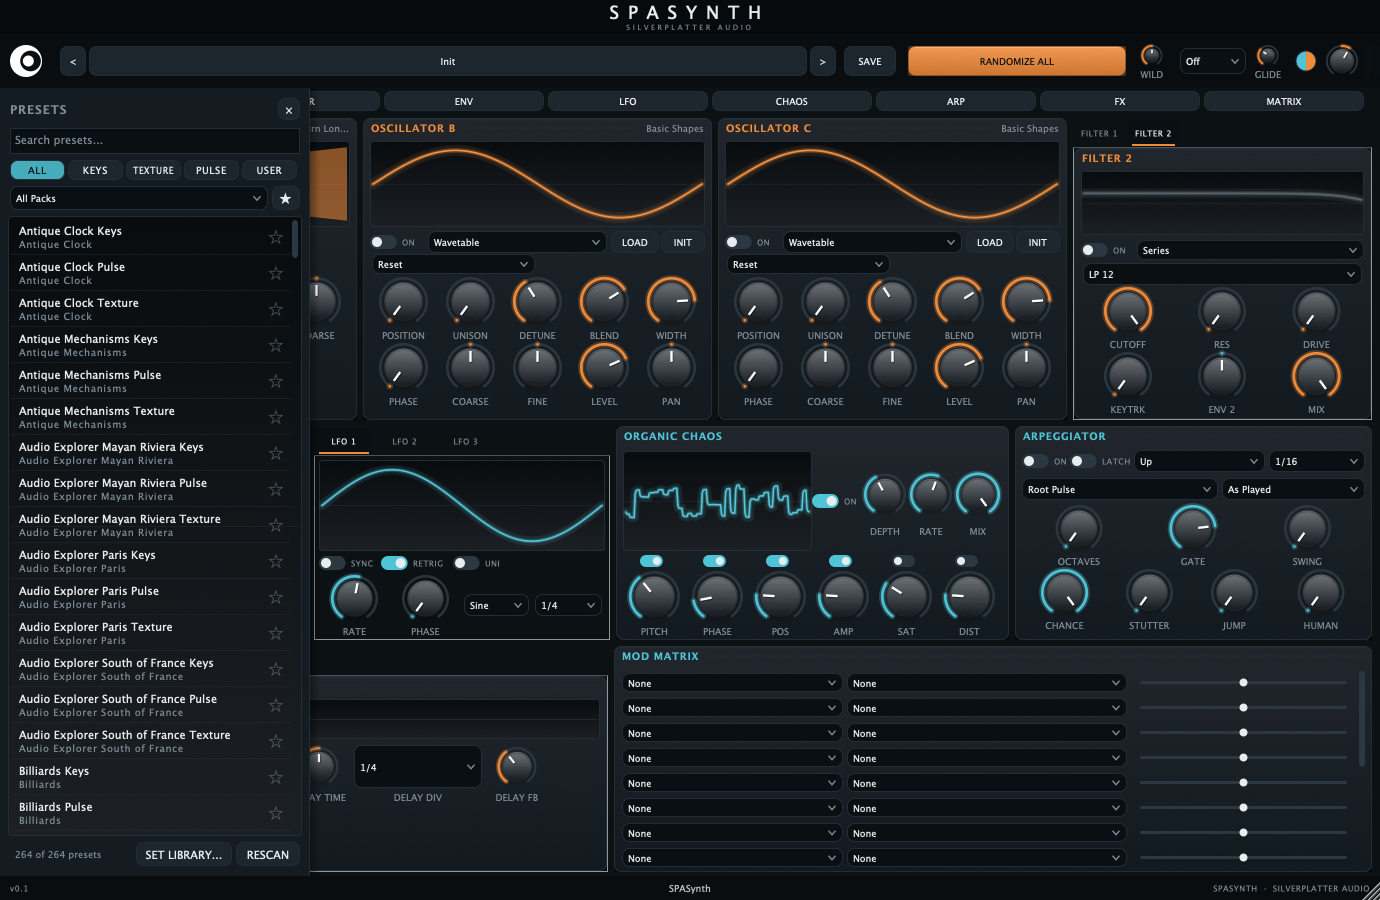
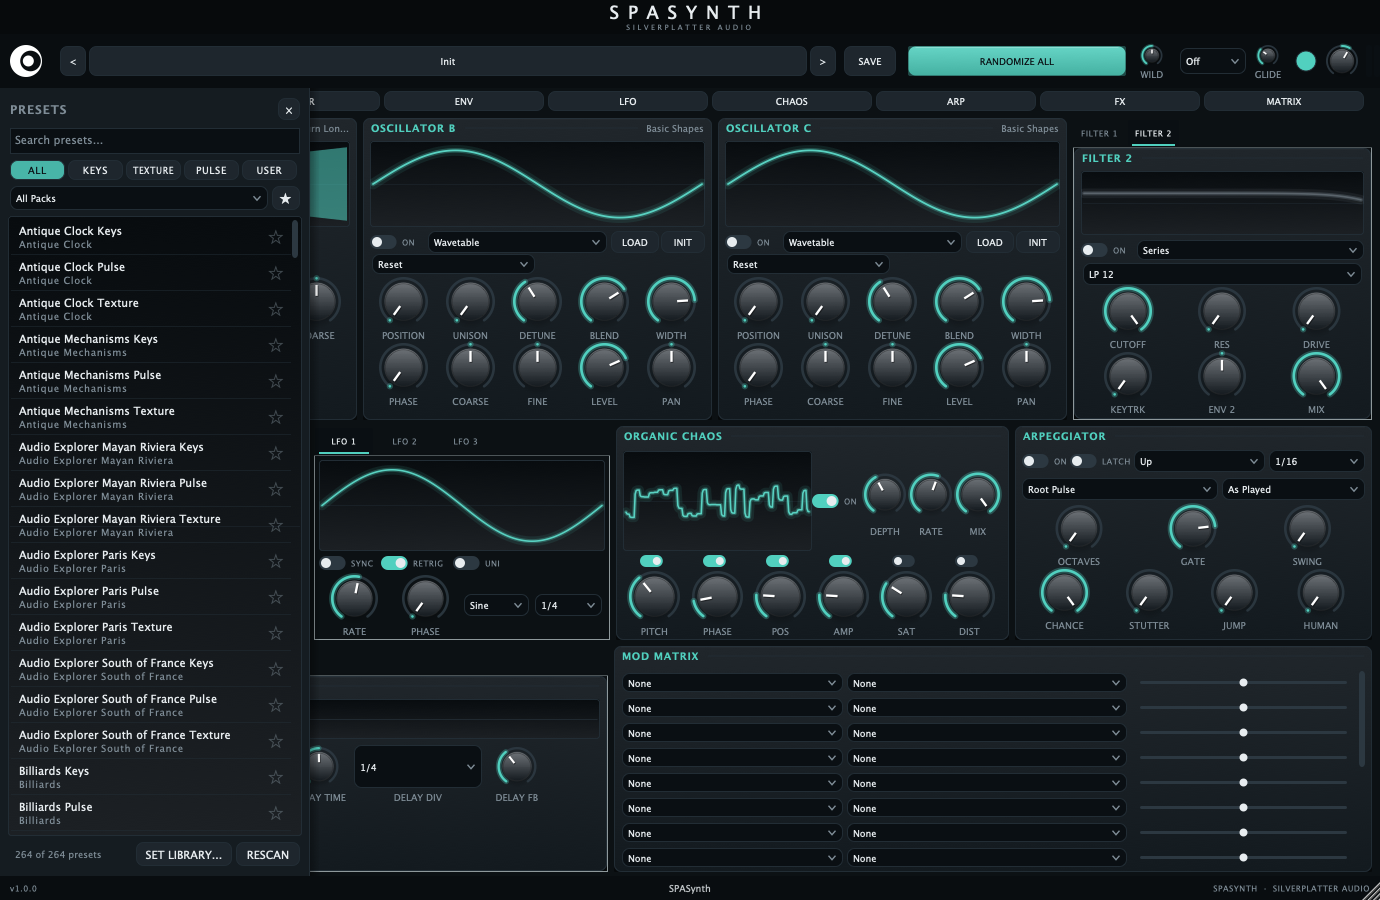
Show a loading state while slot content loads in the background
Big SFX files take a visible moment when a preset switches, and the osc
display either sat on the previous waveform or said "no SFX loaded" until
the background load landed - it now reads as loading:

- Processor: per-slot atomic pendingLoads counters for samples and
  wavetables, incremented at load launch (with a change broadcast so the
  UI flips immediately), decremented in the completion lambda - kept out
  of installSample/installTable so direct installs (setFactoryWavetable)
  can't underflow. isSampleLoading()/isWavetableLoading() accessors.
- WaveDisplay: while a load is in flight, paint a sweeping accent bar
  with a "loading..." caption; a stale waveform dims underneath so it
  reads as outgoing. The paint marks the display dirty again, so the
  24 Hz display timer keeps the sweep animating until the load lands.
- OscStrip header shows "loading..." instead of the stale name or a
  stale error while in flight.
- Tests: loading-flag lifecycle assertions; third snapshot pass
  (spasynth-loading.png, deterministic because the pending decrement is
  queued behind the never-pumped message loop); docs/ snapshots
  refreshed - reviewed all three renders.

Verified: tests ALL PASS, auval + pluginval strictness 8 pass.

diff --git a/source/ui/Displays.cpp b/source/ui/Displays.cpp
@@ -48,6 +48,28 @@ void DisplayComponent::paint (juce::Graphics& g)
     paintDisplay (g, bounds.reduced (3.0f));
 }
 
+// A background load is in flight for this slot: sweeping accent bar +
+// caption. Callers markDirty() after painting this so the 24 Hz display
+// timer keeps the sweep moving until the load lands.
+static void paintLoadingOverlay (juce::Graphics& g, juce::Rectangle<float> area)
+{
+    const auto& t = currentTheme();
+
+    const auto phase = (float) (juce::Time::getMillisecondCounter() % 1200u) / 1200.0f;
+    const auto barWidth = area.getWidth() * 0.18f;
+    const auto x = area.getX() - barWidth + phase * (area.getWidth() + barWidth);
+
+    g.setGradientFill (juce::ColourGradient (
+        t.accent.withAlpha (0.0f),  x, 0.0f,
+        t.accent.withAlpha (0.35f), x + barWidth, 0.0f, false));
+    g.fillRect (juce::Rectangle<float> (x, area.getY(), barWidth, area.getHeight())
+                    .getIntersection (area));
+
+    g.setColour (t.textSecondary);
+    g.setFont (metrics::labelFont());
+    g.drawText ("loading...", area.toNearestInt(), juce::Justification::centred);
+}
+
 // ============================ WaveDisplay ==================================
 
 WaveDisplay::WaveDisplay (SPASynthProcessor& p, int slotIndex)
@@ -86,6 +108,13 @@ void WaveDisplay::paintDisplay (juce::Graphics& g, juce::Rectangle<float> area)
 
     if (mode == params::OscMode::wavetable)
     {
+        if (processor.isWavetableLoading (slot))
+        {
+            paintLoadingOverlay (g, area);
+            markDirty();   // keep the 24 Hz timer animating the sweep
+            return;
+        }
+
         const auto table = processor.getWavetable (slot);
         if (table == nullptr || table->getNumFrames() == 0)
             return;
@@ -194,8 +223,16 @@ void WaveDisplay::paintDisplay (juce::Graphics& g, juce::Rectangle<float> area)
 
     // Sample / granular: waveform overview.
     const auto sample = processor.getSample (slot);
+    const bool loading = processor.isSampleLoading (slot);
     if (sample == nullptr || sample->lengthSamples() < 2)
     {
+        if (loading)
+        {
+            paintLoadingOverlay (g, area);
+            markDirty();   // keep the 24 Hz timer animating the sweep
+            return;
+        }
+
         g.setColour (t.textSecondary.withAlpha (0.6f));
         g.setFont (metrics::labelFont());
         g.drawText ("no SFX loaded", area.toNearestInt(), juce::Justification::centred);
@@ -239,6 +276,16 @@ void WaveDisplay::paintDisplay (juce::Graphics& g, juce::Rectangle<float> area)
     const auto mx = area.getX() + area.getWidth() * juce::jlimit (0.0f, 1.0f, marker);
     g.setColour (t.textPrimary);
     g.drawLine (mx, area.getY(), mx, area.getBottom(), 1.2f);
+
+    // A replacement is still loading: dim the stale waveform so it reads as
+    // outgoing, and run the sweep on top.
+    if (loading)
+    {
+        g.setColour (t.background.withAlpha (0.6f));
+        g.fillRect (area);
+        paintLoadingOverlay (g, area);
+        markDirty();   // keep the 24 Hz timer animating the sweep
+    }
 }
 
 // ============================ EnvDisplay ===================================

diff --git a/tests/SPASynthTests.cpp b/tests/SPASynthTests.cpp
@@ -462,7 +462,13 @@ namespace
         spa::SPASynthProcessor proc;
         proc.prepareToPlay (sampleRate, blockSize);
         proc.loadSampleFromFile (0, file);
+
+        // The in-flight flag drives the UI loading state: set synchronously
+        // at launch, cleared only when the install lands on the message
+        // thread (which needs the pump below).
+        expect (proc.isSampleLoading (0), "slot reports loading while in flight");
         expect (waitForSample (proc, 0, 15000), "sample loads with analysis");
+        expect (! proc.isSampleLoading (0), "loading flag clears once installed");
 
         // Classic sample mode, keytrack off -> plays at source pitch (440 Hz).
         setParam (proc, id::oscSlot (0, id::osc::mode), (float) (int) params::OscMode::sample);
@@ -1103,6 +1109,29 @@ namespace
         }
 
         spa::ui::setAccentColors (savedAccent, savedAccentMod);
+
+        // Third pass: the sample-loading state. Deterministic because the
+        // pending-load decrement is queued behind the message loop, which
+        // this render never pumps — the overlay is guaranteed on screen.
+        {
+            const auto src = writeRampSine (0.5, 48000.0);
+            proc.loadSampleFromFile (0, src);
+
+            std::unique_ptr<juce::AudioProcessorEditor> editor (proc.createEditor());
+            editor->setSize (spa::ui::metrics::baseWidth, spa::ui::metrics::baseHeight);
+
+            const auto image = editor->createComponentSnapshot (editor->getLocalBounds());
+            const auto file = outDir.getChildFile ("spasynth-loading.png");
+            file.deleteFile();
+            juce::PNGImageFormat png;
+            juce::FileOutputStream stream (file);
+            if (stream.openedOk())
+                png.writeImageToStream (image, stream);
+            std::cout << "snapshot: " << file.getFullPathName() << "\n";
+
+            waitForSample (proc, 0, 15000);   // let the load land before teardown
+            src.deleteFile();
+        }
     }
 
     // The preset-name button must be clickable the moment the editor opens —

diff --git a/source/SPASynthProcessor.h b/source/SPASynthProcessor.h
@@ -57,6 +57,18 @@ public:
     juce::String getSampleName (int slot) const;
     juce::String getSampleError (int slot) const;
 
+    // True while a background load for the slot is still in flight — the UI
+    // shows a loading state instead of stale/empty content (big SFX files
+    // take a visible moment when a preset switches).
+    bool isWavetableLoading (int slot) const
+    {
+        return slotTables[(size_t) slot].pendingLoads.load() > 0;
+    }
+    bool isSampleLoading (int slot) const
+    {
+        return slotSamples[(size_t) slot].pendingLoads.load() > 0;
+    }
+
     // Content access for UI displays (message thread).
     std::shared_ptr<const dsp::Wavetable> getWavetable (int slot) const
     {
@@ -129,6 +141,7 @@ private:
         std::atomic<const dsp::Wavetable*> live { nullptr }; // audio thread
         juce::String path;                                    // "" = factory
         juce::String error;
+        std::atomic<int> pendingLoads { 0 };                  // in-flight background loads
     };
     std::shared_ptr<const dsp::Wavetable> factoryTable;
     std::array<SlotTable, params::maxOscSlots> slotTables;
@@ -141,6 +154,7 @@ private:
         std::atomic<const dsp::SampleData*> live { nullptr }; // audio thread
         juce::String path;
         juce::String error;
+        std::atomic<int> pendingLoads { 0 };                  // in-flight background loads
     };
     std::array<SlotSample, params::maxOscSlots> slotSamples;
     std::vector<std::shared_ptr<const dsp::SampleData>> retiredSamples;  // message thread

diff --git a/source/SPASynthProcessor.cpp b/source/SPASynthProcessor.cpp
@@ -214,6 +214,12 @@ void SPASynthProcessor::installSample (int slot, std::shared_ptr<const dsp::Samp
 
 void SPASynthProcessor::loadSampleFromFile (int slot, const juce::File& file)
 {
+    // Count the in-flight load (and broadcast) so the UI can show a loading
+    // state; the decrement lives in the completion lambda — NOT in
+    // installSample — so direct installs never underflow the counter.
+    slotSamples[(size_t) slot].pendingLoads.fetch_add (1);
+    sendChangeMessage();
+
     juce::Thread::launch ([this, slot, file]
     {
         auto result = dsp::loadSampleFromFile (file);
@@ -221,6 +227,7 @@ void SPASynthProcessor::loadSampleFromFile (int slot, const juce::File& file)
         juce::MessageManager::callAsync ([this, slot, loaded = std::move (result),
                                           path = file.getFullPathName()]() mutable
         {
+            slotSamples[(size_t) slot].pendingLoads.fetch_sub (1);
             installSample (slot, std::move (loaded.sample), path, loaded.error);
         });
     });
@@ -357,6 +364,10 @@ void SPASynthProcessor::installTable (int slot, std::shared_ptr<const dsp::Wavet
 
 void SPASynthProcessor::loadWavetableFromFile (int slot, const juce::File& file)
 {
+    // Same loading-state bookkeeping as loadSampleFromFile.
+    slotTables[(size_t) slot].pendingLoads.fetch_add (1);
+    sendChangeMessage();
+
     juce::Thread::launch ([this, slot, file]
     {
         auto result = dsp::loadWavetableFromFile (file);
@@ -364,6 +375,7 @@ void SPASynthProcessor::loadWavetableFromFile (int slot, const juce::File& file)
         juce::MessageManager::callAsync ([this, slot, loaded = std::move (result),
                                           path = file.getFullPathName()]() mutable
         {
+            slotTables[(size_t) slot].pendingLoads.fetch_sub (1);
             installTable (slot, std::move (loaded.table), path, loaded.error);
         });
     });

diff --git a/source/ui/ModulePanels.cpp b/source/ui/ModulePanels.cpp
@@ -103,11 +103,17 @@ juce::String OscStrip::contentName() const
     switch (currentMode())
     {
         case params::OscMode::wavetable:
+            if (processor.isWavetableLoading (slot))
+                return "loading...";
             return processor.getWavetableName (slot);
 
         case params::OscMode::sample:
         case params::OscMode::granular:
         {
+            // While a new file is in flight, neither the previous name nor a
+            // stale error is the truth — say so.
+            if (processor.isSampleLoading (slot))
+                return "loading...";
             const auto error = processor.getSampleError (slot);
             if (error.isNotEmpty())
                 return "! " + error;